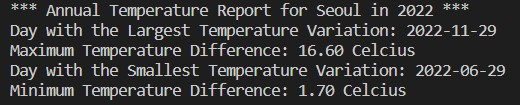
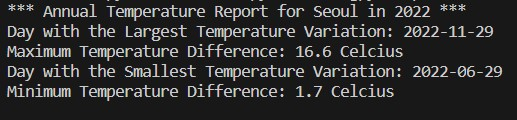
Add files via upload

diff --git a/Q2/q2.py b/Q2/q2.py
@@ -43,13 +43,13 @@ def Q2():
     for str in maxD:
         print(str, end=" ")
     print()
-    print(f"Maximum Temperature Difference: {maxi:.2f} Celcius")
+    print(f"Maximum Temperature Difference: {maxi:.1f} Celcius")
     
     print("Day with the Smallest Temperature Variation: ", end="")
     for str in minD:
         print(str, end=" ")
     print()
-    print(f"Minimum Temperature Difference: {mini:.2f} Celcius")
+    print(f"Minimum Temperature Difference: {mini:.1f} Celcius")
             
     # file close 
     f.close()

diff --git a/Q1/q1.py b/Q1/q1.py
@@ -32,9 +32,9 @@ def Q1():
     avg_hi /= cnt
     # print answer
     print("*** Annual Temperature Report for Seoul in 2022 ***")
-    print(f"Average Temperature: {avg:.1f} Celsius")
-    print(f"Average Minimum Temperature: {avg_lo:.1f} Celsius")
-    print(f"Average Maximum Temperature: {avg_hi:.1f} Celsius")
+    print(f"Average Temperature: {avg:.2f} Celsius")
+    print(f"Average Minimum Temperature: {avg_lo:.2f} Celsius")
+    print(f"Average Maximum Temperature: {avg_hi:.2f} Celsius")
 
     # file close 
     f.close()
